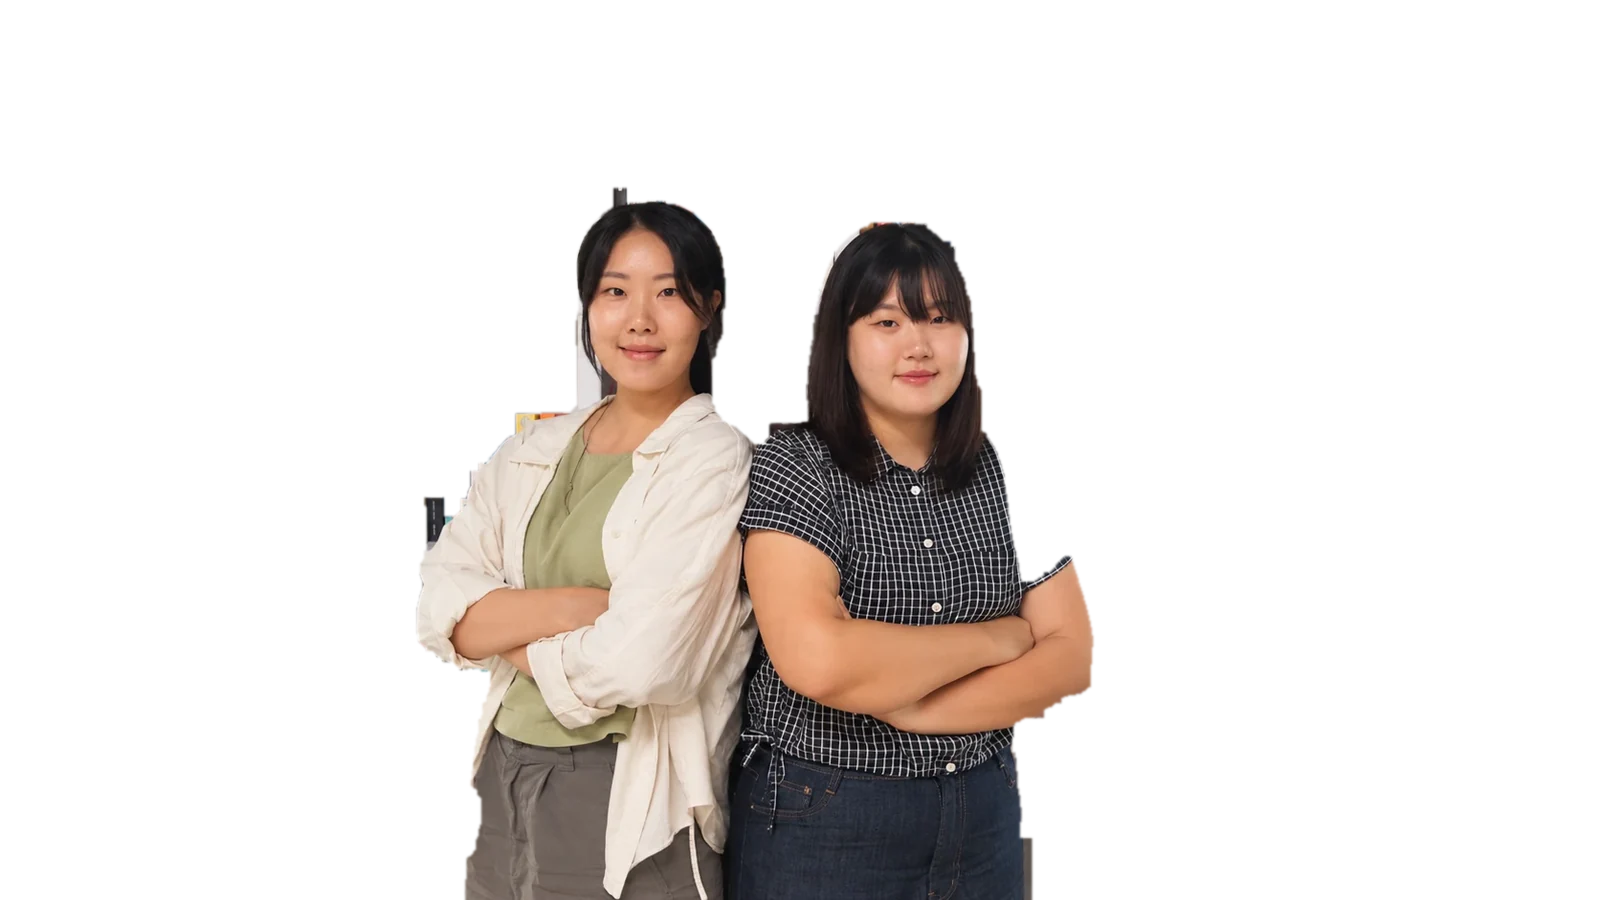
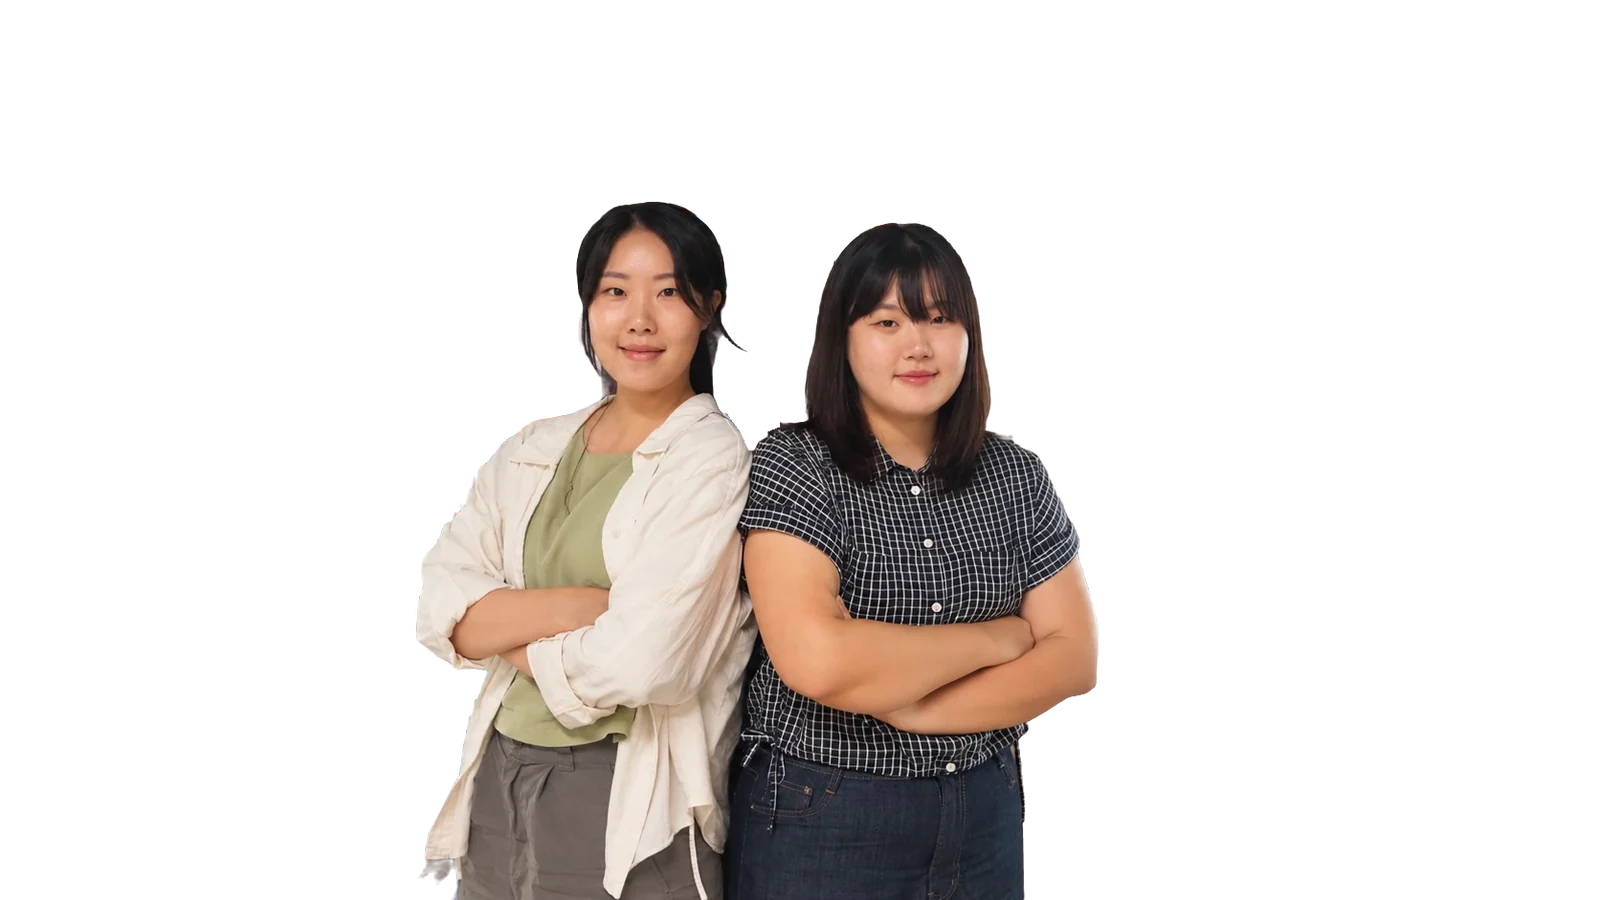
서브메인 아인학교: 누끼를 도구로 새로 따고, 더하던 인물 밝기는 빼기 (세 언어)
- interview-01-cut-b.webp: rembg(isnet-general-use)로 새로, 재킷 옆·어깨 사이 책장 지움 (78KB)
- 밝게 손본 새 사진 위에 더해지던 누끼 밝기 1.22·1.26배를 뺌 (너무 밝아 날아감). 얼굴 쪽 PC 107·휴대폰 108
- 원본·마스크는 reference/tools/cut-01/, CLAUDE.md에 적음. 기사 첫 화면은 그대로

diff --git a/public/css/style.css b/public/css/style.css
@@ -1266,13 +1266,9 @@ a { color: inherit; }
     mask-image: linear-gradient(180deg, #000 0, #000 48%, transparent 64%);
   }
 }
-/* 아인학교: 밝은 창가 배경(평균 밝기 176)보다 인물(89)이 많이 어두워, 배경 사진은 그대로 두고 인물(누끼)만 밝게 (사용자 요청 2026-10-29).
-   다른 세 사람은 인물과 배경 밝기가 비슷해 그대로 (백록마케팅 109·109, 파랑오브레코즈샵 45·42, 엠아이티도그 106·94) */
-.people .person--photo[data-index="2"] .person__cut { filter: brightness(var(--cut-bright)) drop-shadow(0 0 1.5px rgba(0, 0, 0, .35)) drop-shadow(0 4px 8px rgba(0, 0, 0, .18)); }
-/* 백록마케팅은 얼굴만 밝게 해 누끼 그림(interview-02-cut.webp)에 바로 넣었다 (사용자 요청 "얼굴 부분만", 2026-10-29). CSS 밝기는 쓰지 않는다 */
-/* 얼굴 쪽 밝기를 PC 97 → 107, 휴대폰 85 → 98로 (사용자가 정한 수치, 같은 날. 바로 전 1.34배는 113·102) */
-.people .person--photo[data-index="2"] { --cut-bright: 1.22; }
-@media (max-width: 899px) { .people .person--photo[data-index="2"] { --cut-bright: 1.26; } }
+/* 인물만 밝게 하던 CSS 밝기는 이제 쓰지 않는다 (2026-10-29)
+   - 아인학교: 사용자가 밝기를 손본 사진으로 바꿔, 전에 더하던 1.22·1.26배를 빼고 사진 그대로 ("너무 밝아서 다 날아갔어")
+   - 백록마케팅: 얼굴만 밝게 해 누끼 그림(interview-02-cut.webp)에 바로 넣었다 ("얼굴 부분만") */
 /* 첫 줄이 인물에 살짝 걸치도록 슬라이드마다 자리를 맞춘다 (PC) */
 @media (min-width: 900px) {
   .people .person--photo[data-index="1"] .person__back { left: 24%; top: 8%; }   /* 백록마케팅 */

diff --git a/CLAUDE.md b/CLAUDE.md
@@ -386,9 +386,13 @@ ijejumin-webzine/
       - 바로 전에는 PC·휴대폰 모두 1.34배(113·102)였다
     - 다른 세 사람은 인물과 배경 밝기가 비슷해 그대로 (백록마케팅 109·109, 파랑오브레코즈샵 45·42, 엠아이티도그 106·94)
     - 같은 날 사진을 사용자가 준 밝기 손본 사진으로 바꿨다 (사용자 요청 "다른 부분은 건들지마", 세 언어 서브메인. 같은 장면이라 어긋남 0px, 평균 밝기 156 → 174)
-      - `interview-01-photo.jpg?v=2`(214KB). 누끼는 서브메인용 새 파일 `interview-01-cut-b.webp`(모양은 전 누끼 그대로, 색만 새 사진)
+      - `interview-01-photo.jpg?v=2`(214KB). 누끼는 서브메인용 새 파일 `interview-01-cut-b.webp`(78KB)
         - 전 누끼 `interview-01-cut.webp`는 기사 첫 화면(`.story-cut`)이 같이 쓰고 있어 그대로 두었다 (기사는 바뀌지 않음)
-      - 위 누끼 밝기(`--cut-bright` 1.22·1.26)는 손대지 않아 새 사진 위에 그대로 더해진다
+      - 누끼는 사용자 요청 "누끼 다시 따"로 rembg(isnet-general-use)로 새로 땄다. 처음엔 전 누끼 모양을 그대로 쓰고 색만 바꿨었다
+        - 왼쪽 분 재킷 옆에 반쯤 묻은 책장(투명도 100 아래)은 지우고 100~200은 부드럽게 남겼다. 두 분 어깨 사이 책 등은 그 자리만 지웠다
+        - 원본 사진·마스크는 `reference/tools/cut-01/`. 다시 만들기: `reference/tools/cut-02/face_boost.py reference/tools/cut-01/source.webp reference/tools/cut-01/mask-final.png public/images/interview-01-cut-b.webp 1`
+      - 밝기: 위 누끼 밝기(1.22·1.26배)가 밝게 손본 새 사진 위에 더해져 "너무 밝아서 다 날아갔어"라 뺐다. 이제 사진 그대로 (얼굴 쪽 PC 107·휴대폰 108)
+        - 그래서 `--cut-bright` CSS는 이제 어디에도 쓰지 않는다 (백록마케팅은 얼굴만 누끼 그림에 바로 밝힘)
   - 엠아이티도그 사진(04, 전 '에밀리')은 사용자가 준 더 넓은 사진(손까지 나옴)으로 바꿨다 (2026-10-22). 1600×900으로 줄여 넣었다
     - 휴대폰에서 사진을 0.92배로 줄여 양옆에 어두운 여백이 생기던 것을 없앴다. 이제 줄이지 않고 위로 12% 당긴다 ("인물 더 올려줘")
     - 같은 이름으로 바꿨기 때문에 휴대폰이 예전 사진을 캐시에서 꺼내 썼다. 그래서 `index.html`의 두 사진 주소 끝에 `?v=2`를 붙였다
